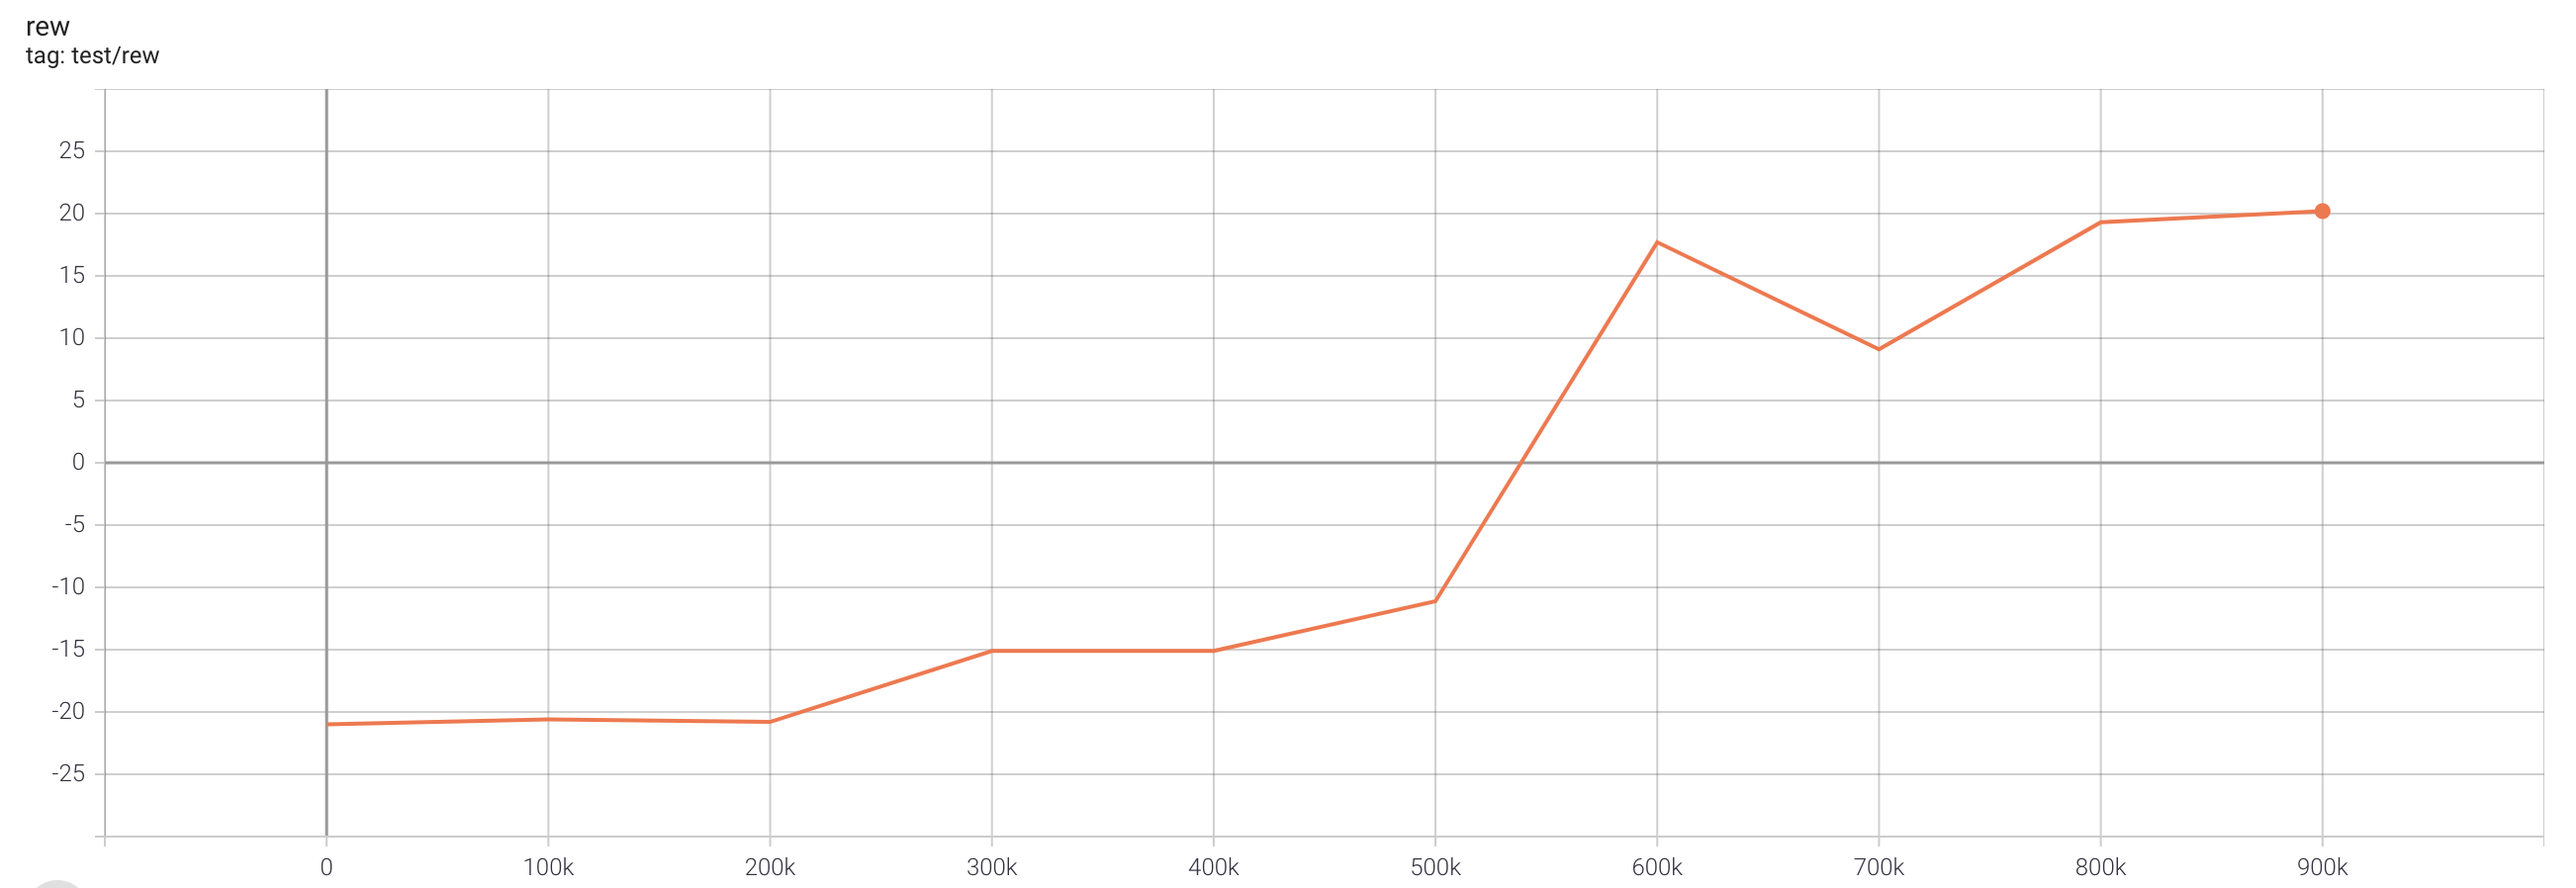
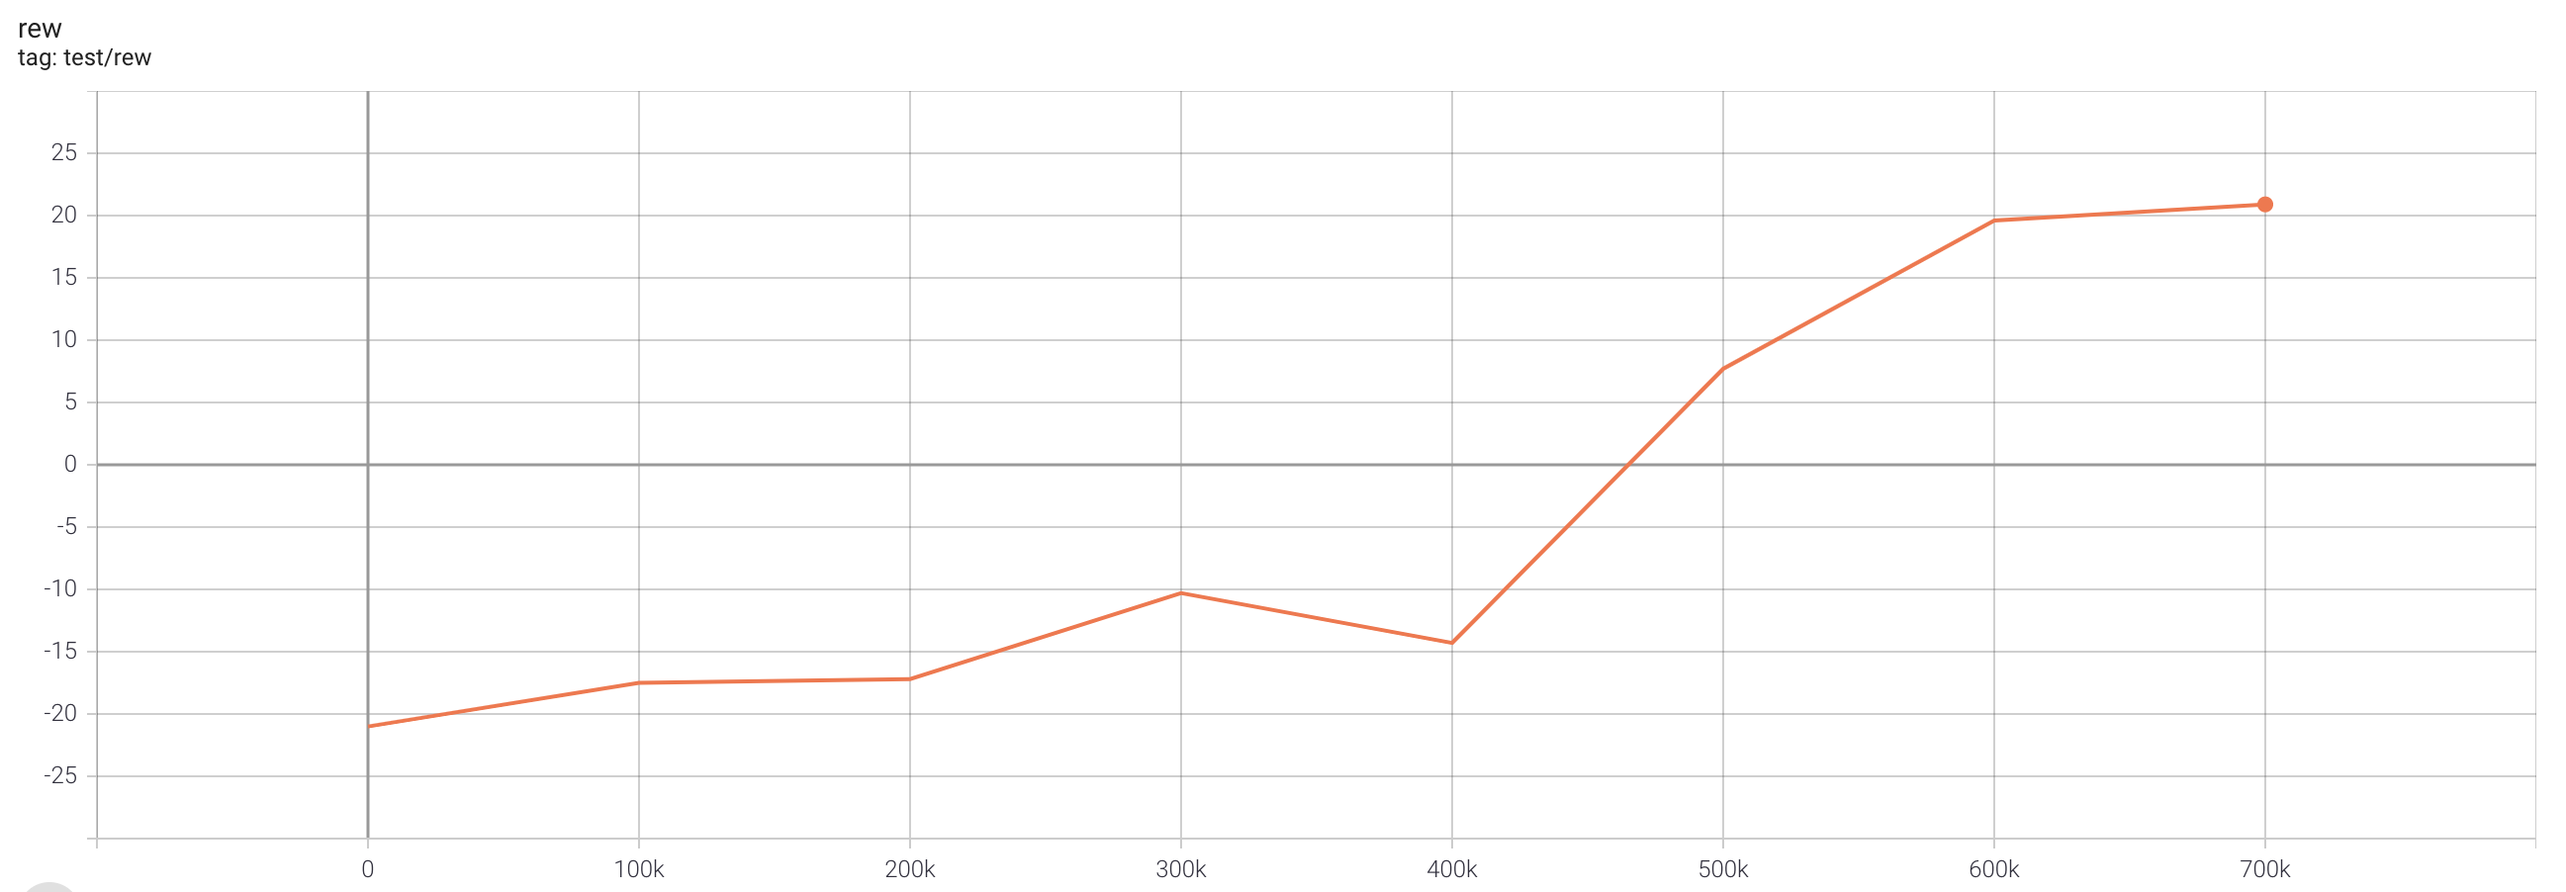
revert hidden sizes and rerun exps

diff --git a/examples/atari/atari_iqn.py b/examples/atari/atari_iqn.py
@@ -30,7 +30,7 @@ def get_args():
     parser.add_argument('--online-sample-size', type=int, default=8)
     parser.add_argument('--target-sample-size', type=int, default=8)
     parser.add_argument('--num-cosines', type=int, default=64)
-    parser.add_argument('--hidden-sizes', type=int, nargs='*', default=[512, 512])
+    parser.add_argument('--hidden-sizes', type=int, nargs='*', default=[512])
     parser.add_argument('--n-step', type=int, default=3)
     parser.add_argument('--target-update-freq', type=int, default=500)
     parser.add_argument('--epoch', type=int, default=100)

diff --git a/examples/atari/README.md b/examples/atari/README.md
@@ -60,13 +60,13 @@ One epoch here is equal to 100,000 env step, 100 epochs stand for 10M.
 
 | task                        | best reward | reward curve                          | parameters                                                   |
 | --------------------------- | ----------- | ------------------------------------- | ------------------------------------------------------------ |
-| PongNoFrameskip-v4          | 20.2        | ![](results/iqn/Pong_rew.png)         | `python3 atari_iqn.py --task "PongNoFrameskip-v4" --batch-size 64` |
-| BreakoutNoFrameskip-v4      | 450.2       | ![](results/iqn/Breakout_rew.png)     | `python3 atari_iqn.py --task "BreakoutNoFrameskip-v4" --n-step 1` |
-| EnduroNoFrameskip-v4        | 1883.6      | ![](results/iqn/Enduro_rew.png)       | `python3 atari_iqn.py --task "EnduroNoFrameskip-v4"`  |
-| QbertNoFrameskip-v4         | 15837.5     | ![](results/iqn/Qbert_rew.png)        | `python3 atari_iqn.py --task "QbertNoFrameskip-v4"`  |
-| MsPacmanNoFrameskip-v4      | 3304        | ![](results/iqn/MsPacman_rew.png)     | `python3 atari_iqn.py --task "MsPacmanNoFrameskip-v4"`  |
-| SeaquestNoFrameskip-v4      | 5522        | ![](results/iqn/Seaquest_rew.png)     | `python3 atari_iqn.py --task "SeaquestNoFrameskip-v4"`  |
-| SpaceInvadersNoFrameskip-v4 | 1228.5      | ![](results/iqn/SpaceInvader_rew.png) | `python3 atari_iqn.py --task "SpaceInvadersNoFrameskip-v4"`  |
+| PongNoFrameskip-v4          | 20.9        | ![](results/iqn/Pong_rew.png)         | `python3 atari_iqn.py --task "PongNoFrameskip-v4" --batch-size 64` |
+| BreakoutNoFrameskip-v4      | 578.3       | ![](results/iqn/Breakout_rew.png)     | `python3 atari_iqn.py --task "BreakoutNoFrameskip-v4" --n-step 1` |
+| EnduroNoFrameskip-v4        | 1507        | ![](results/iqn/Enduro_rew.png)       | `python3 atari_iqn.py --task "EnduroNoFrameskip-v4"`  |
+| QbertNoFrameskip-v4         | 15520       | ![](results/iqn/Qbert_rew.png)        | `python3 atari_iqn.py --task "QbertNoFrameskip-v4"`  |
+| MsPacmanNoFrameskip-v4      | 2911        | ![](results/iqn/MsPacman_rew.png)     | `python3 atari_iqn.py --task "MsPacmanNoFrameskip-v4"`  |
+| SeaquestNoFrameskip-v4      | 6236        | ![](results/iqn/Seaquest_rew.png)     | `python3 atari_iqn.py --task "SeaquestNoFrameskip-v4"`  |
+| SpaceInvadersNoFrameskip-v4 | 1370        | ![](results/iqn/SpaceInvader_rew.png) | `python3 atari_iqn.py --task "SpaceInvadersNoFrameskip-v4"`  |
 
 # BCQ
 
